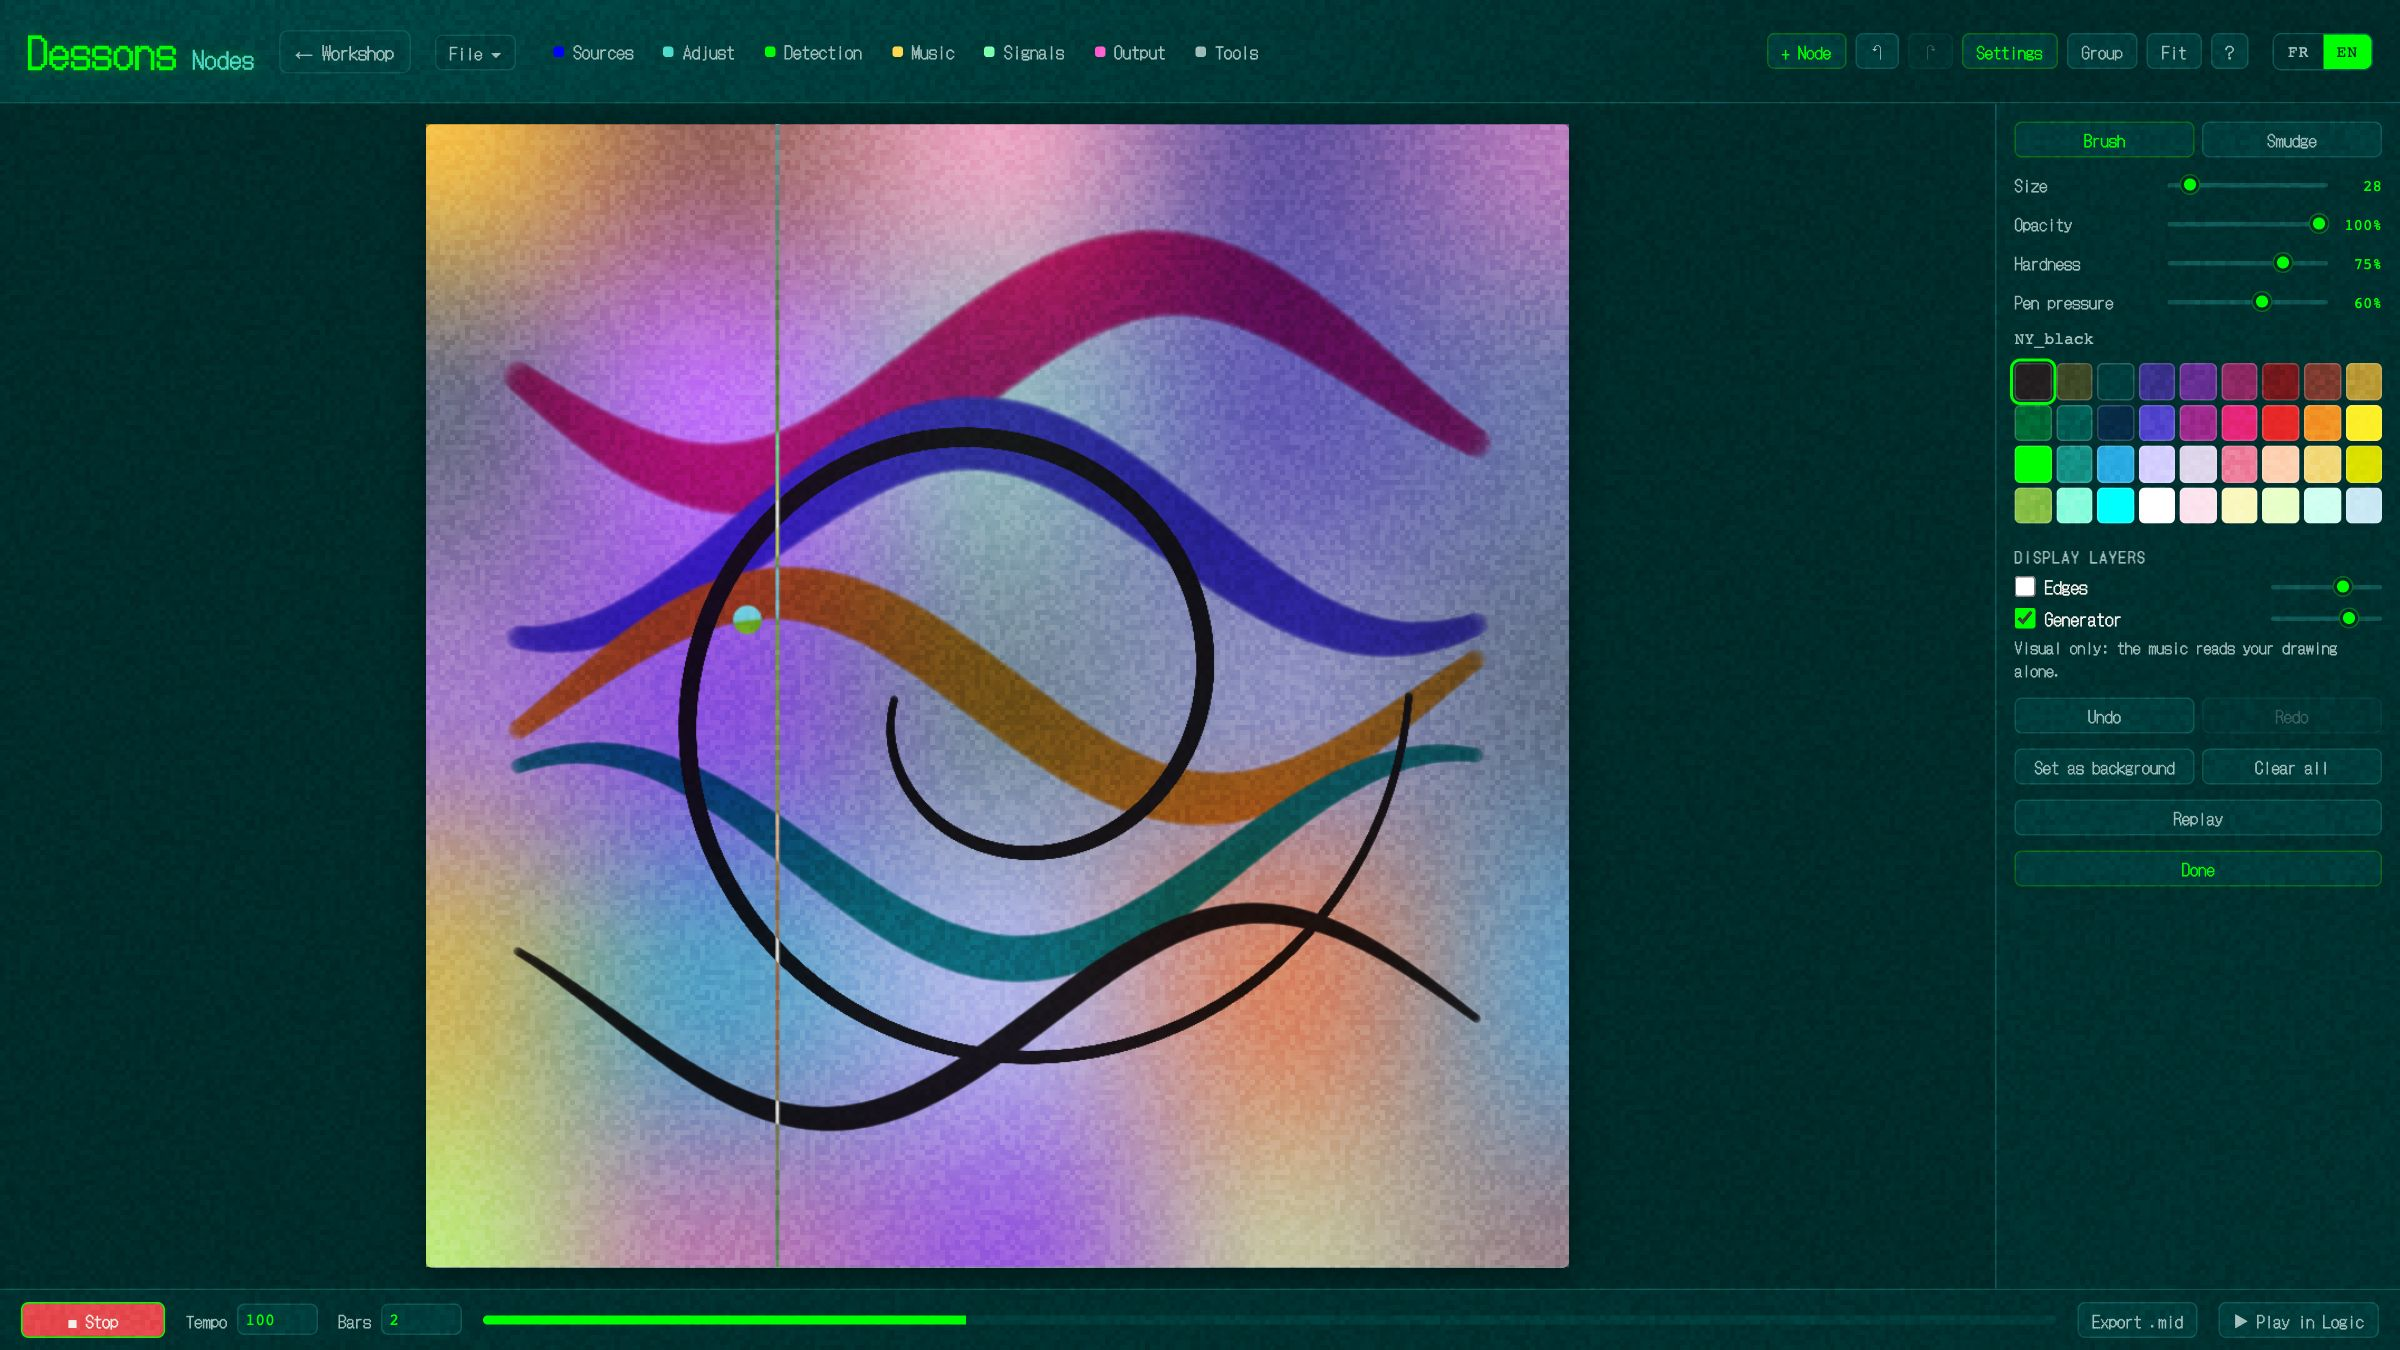
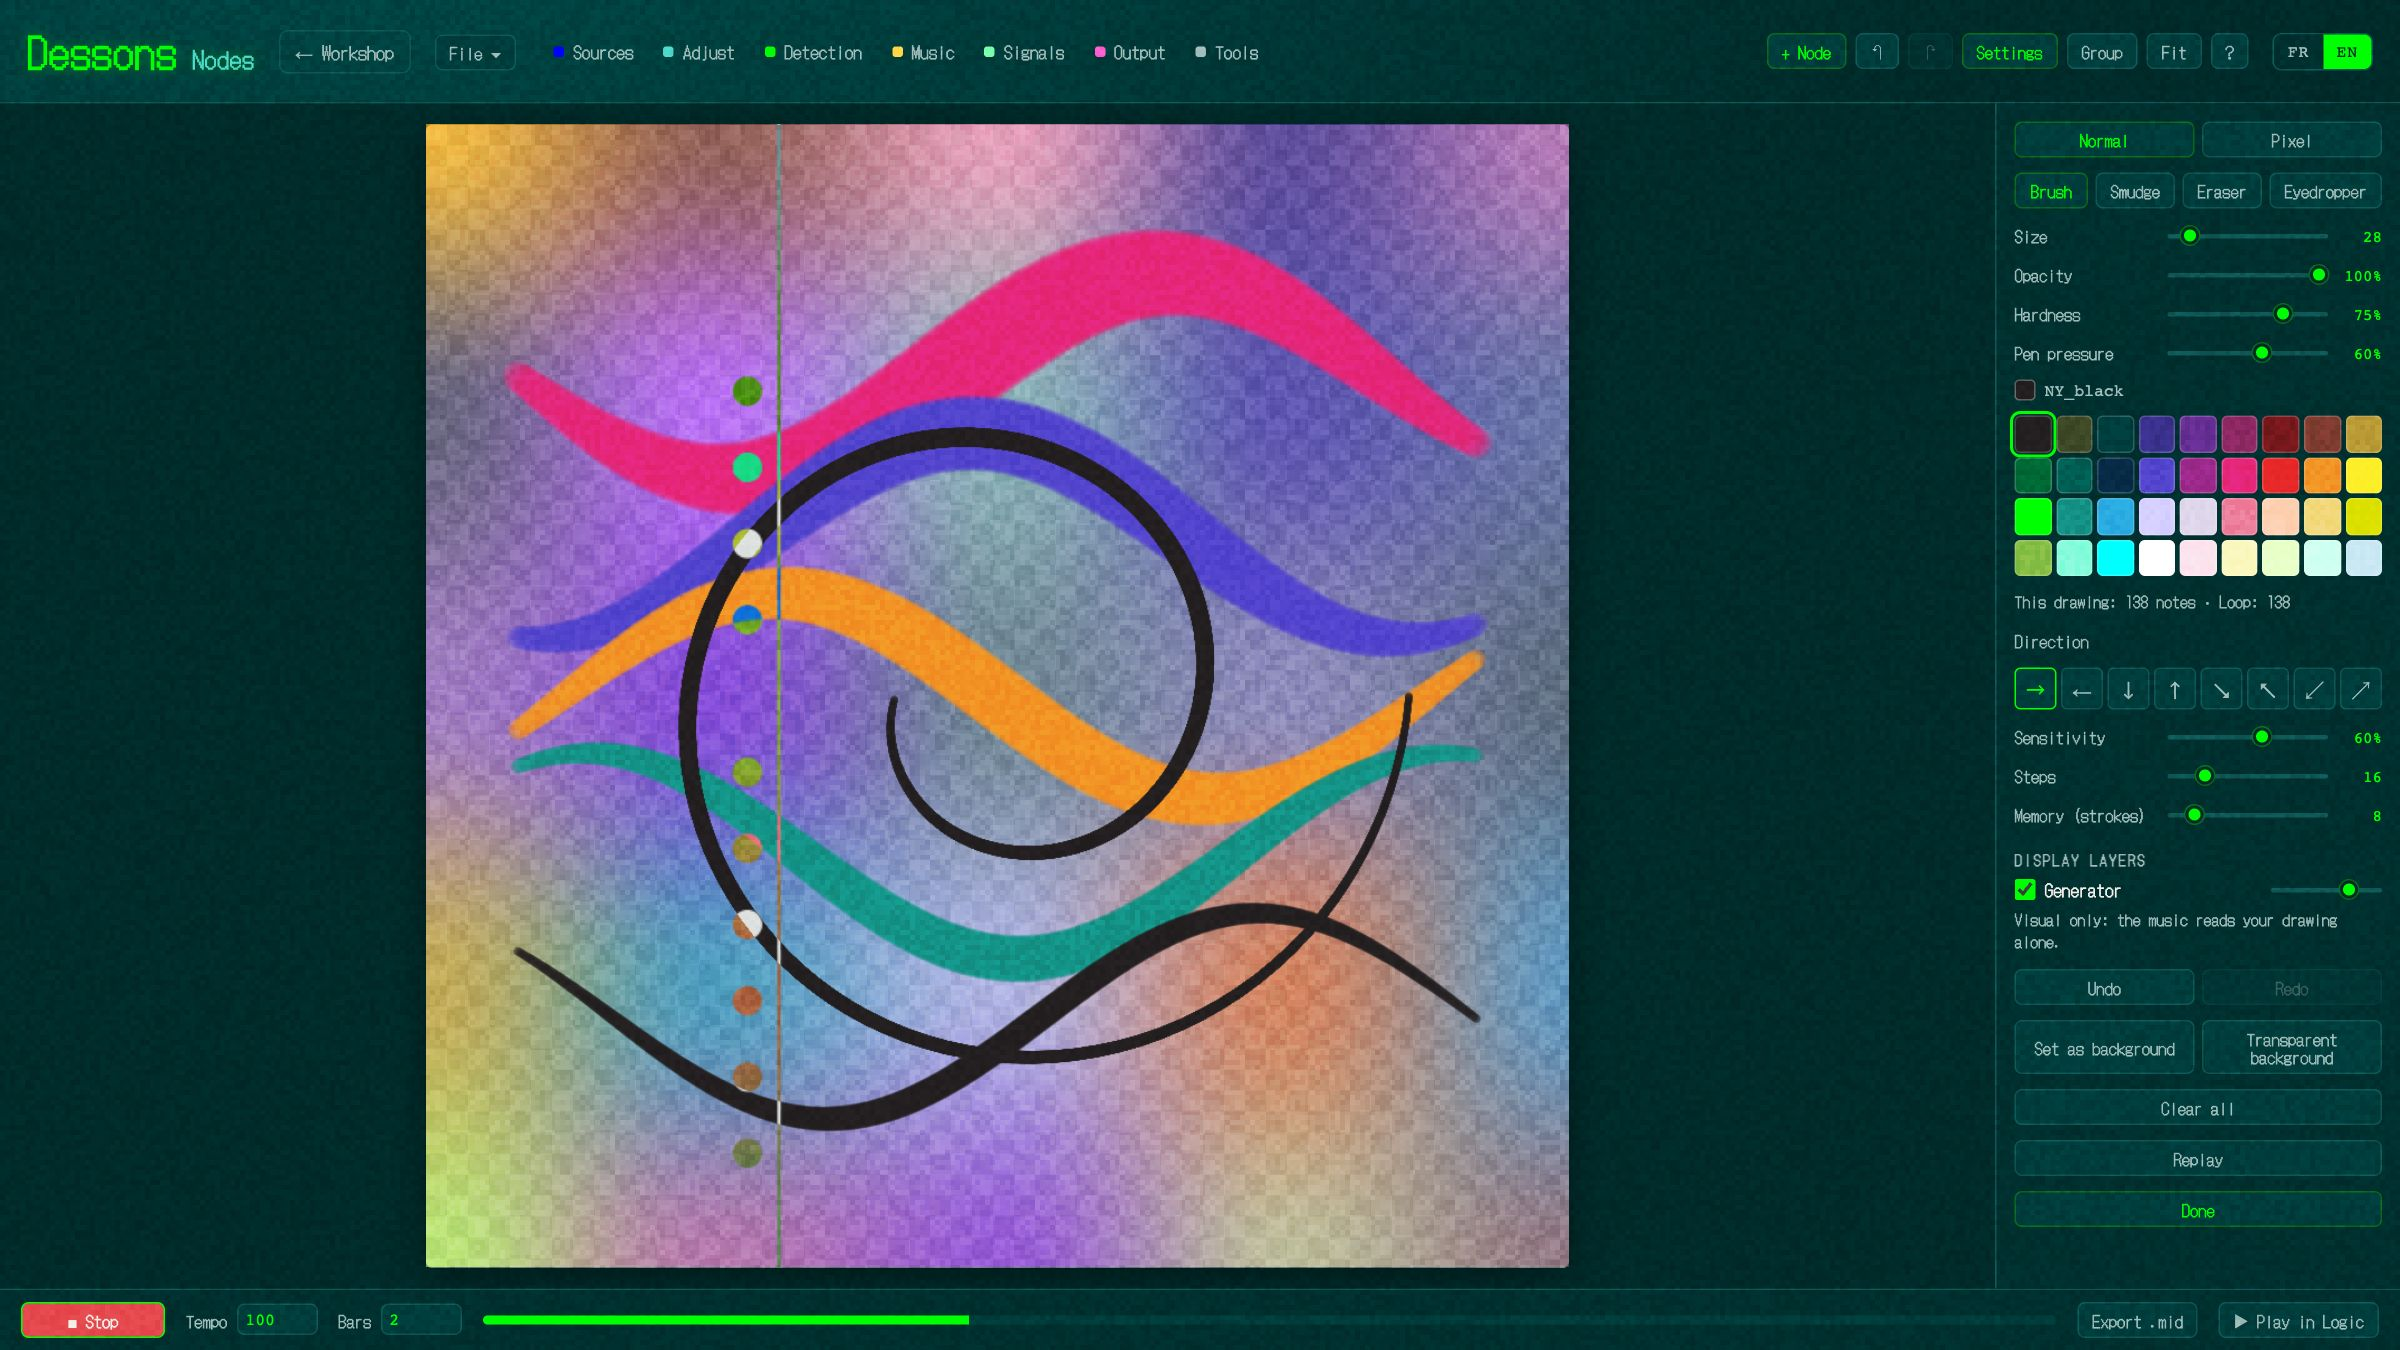
Met à jour les explications du node Dessin
Section dédiée dans les deux README, nouvelle capture, et aides de
l'application à jour avec le méta-node.

diff --git a/nodes.html b/nodes.html
@@ -483,7 +483,7 @@ const I18N = {
     versionRestore:'Restaurer', versionConfirm:'Remplacer le graphe actuel par cette version ? Il sera gardé dans les versions.', versionNone:'Aucune version pour l’instant.',
     versionSum:'{n} nodes · {s} traits', autoFilePick:'Choisir un fichier…', autoFileOff:'Fichier sur le disque : aucun', autoFileOn:'Écrit dans {x}', autoFileStop:'Arrêter', autoFileResume:'Reconnecter', autoFileLost:'Fichier auto à reconnecter',
     savedAt:'Sauvé {x}', savedFile:'Sauvé {x} · {f}',
-    n_srcDraw:'Dessin', p_reveal:'Avancement', btnDraw:'Dessiner', drawSum:'{n} traits', tpl_draw:'Live painting', p_replayMin:'Durée du replay', btnReplayLive:'Rejouer le dessin', replayStop:'Arrêter', replayEnd:'Terminé',
+    drawHint:'Sortie notes vers une Piste. Sens, pas et sensibilité sont dans Dessiner.', n_srcDraw:'Dessin', p_reveal:'Avancement', btnDraw:'Dessiner', drawSum:'{n} traits', tpl_draw:'Live painting', p_replayMin:'Durée du replay', btnReplayLive:'Rejouer le dessin', replayStop:'Arrêter', replayEnd:'Terminé',
     drLayers:'Calques d’affichage', drLayersHint:'Visuels seulement : la musique ne lit que ton dessin.',
     viaPixel:'une note par case', tpl_pixel:'Pixel art',
     modeNormal:'Normal', modePixel:'Pixel', pxGrid:'Grille', pxSize:'Taille (cases)', pxShow:'Afficher la grille',
@@ -562,8 +562,8 @@ const I18N = {
     n_crop:'Recadrage', n_sens:'Sensibilité', n_curve:'Courbe perso.', n_path:'Trajet dessiné',
     t_path:'trajet', t_curve:'courbe', p_seed:'Partir de', seedNone:'—',
     cropHint:'Glisse sur l\'aperçu pour cadrer · double-clic : image entière.',
-    curveHint:'Glisse les 3 poignées. Branche-la sur l\'entrée « courbe » d\'un Balayage.',
-    pathHint:'Dessine le trajet sur l\'aperçu. Branche-le sur l\'entrée « trajet » d\'un Balayage : il remplace le sens.',
+    curveHint:'Glisse les 3 poignées. Branche-la sur l\'entrée « courbe » d\'un Balayage ou d\'un Dessin.',
+    pathHint:'Dessine le trajet sur l\'aperçu. Branche-le sur l\'entrée « trajet » d\'un Balayage ou d\'un Dessin : il remplace le sens.',
     btnAuto:'Auto (Otsu)', sensPass:'{x} % des pixels passent',
     viaSens:'sensibilité réglée par le node', viaPath:'sens : trajet dessiné', viaCurve:'courbe personnalisée',
     p_octRange:'Plage d\'octaves'
@@ -580,7 +580,7 @@ const I18N = {
     versionRestore:'Restore', versionConfirm:'Replace the current graph with this version? It will be kept in the versions.', versionNone:'No version yet.',
     versionSum:'{n} nodes · {s} strokes', autoFilePick:'Choose a file…', autoFileOff:'File on disk: none', autoFileOn:'Writing to {x}', autoFileStop:'Stop', autoFileResume:'Reconnect', autoFileLost:'Auto file needs reconnecting',
     savedAt:'Saved {x}', savedFile:'Saved {x} · {f}',
-    n_srcDraw:'Drawing', p_reveal:'Progress', btnDraw:'Draw', drawSum:'{n} strokes', tpl_draw:'Live painting', p_replayMin:'Replay length', btnReplayLive:'Replay the drawing', replayStop:'Stop', replayEnd:'Finished',
+    drawHint:'Notes output to a Track. Direction, steps and sensitivity are in Draw.', n_srcDraw:'Drawing', p_reveal:'Progress', btnDraw:'Draw', drawSum:'{n} strokes', tpl_draw:'Live painting', p_replayMin:'Replay length', btnReplayLive:'Replay the drawing', replayStop:'Stop', replayEnd:'Finished',
     drLayers:'Display layers', drLayersHint:'Visual only: the music reads your drawing alone.',
     viaPixel:'one note per cell', tpl_pixel:'Pixel art',
     modeNormal:'Normal', modePixel:'Pixel', pxGrid:'Grid', pxSize:'Size (cells)', pxShow:'Show the grid',
@@ -659,8 +659,8 @@ const I18N = {
     n_crop:'Crop', n_sens:'Sensitivity', n_curve:'Custom curve', n_path:'Drawn path',
     t_path:'path', t_curve:'curve', p_seed:'Start from', seedNone:'—',
     cropHint:'Drag on the preview to frame · double-click: whole image.',
-    curveHint:'Drag the 3 handles. Wire it into a Scan\'s "curve" input.',
-    pathHint:'Draw the path on the preview. Wire it into a Scan\'s "path" input: it replaces the direction.',
+    curveHint:'Drag the 3 handles. Wire it into the "curve" input of a Scan or a Drawing.',
+    pathHint:'Draw the path on the preview. Wire it into the "path" input of a Scan or a Drawing: it replaces the direction.',
     btnAuto:'Auto (Otsu)', sensPass:'{x} % of pixels pass',
     viaSens:'sensitivity set by node', viaPath:'direction: drawn path', viaCurve:'custom curve',
     p_octRange:'Octave range'
@@ -1094,7 +1094,7 @@ const NODE_DEFS = {
   // a painting kept as its strokes, in the order they were made, so it can be replayed:
   // with cycles on, the picture builds up during each pass of the Loop
   srcDraw: {
-    cat:'catSource', custom:'draw', thumb:'image',
+    cat:'catSource', custom:'draw', thumb:'image', note:'drawHint',
     inputs:[{id:'scale', type:'scale', opt:true}, {id:'curve', type:'curve', opt:true}, {id:'path', type:'path', opt:true}],
     outputs:[{id:'notes', type:'notes'}, {id:'image', type:'image'}],
     params:[

diff --git a/README.fr.md b/README.fr.md
@@ -71,9 +71,26 @@ Commence par **Fichier → Modèles** : ils jouent tout de suite, sauf *MIDI imp
 - **Sortie** : boucle (synthé d'aperçu, export `.mid`), **Logic (MIDI live)**, un node par piste Logic, et **Signal → CC MIDI** pour automatiser un filtre ou un volume dans ton DAW. Le MIDI en direct nécessite Chrome ou Edge.
 - **Outils** : courbe personnalisée, trajet dessiné, reroute, attache-câbles, cadre de groupe.
 
+### Dessin et live painting
+
+Le node **Dessin** est un instrument complet : tu peins, et la peinture joue. Contours et Balayage y sont intégrés : sa sortie **notes** va directement vers une Piste ou vers Logic. Sa sortie **image** alimente n'importe quelle autre chaîne, par exemple une bande de teinte par couleur, pour donner à chaque couleur son instrument.
+
 ![Live painting dans Nodes : traits de couleur et spirale sur un calque de bruit qui bouge, une tête de lecture qui lit la peinture, les réglages du pinceau et le nuancier NY à droite](docs/screenshot-drawing.jpg)
 
-**Dessin** : peins directement dans le graphe sur un fond transparent avec un pinceau rond, une estompe, une gomme et une pipette (taille, opacité, dureté, pression du stylet) et le nuancier NY. Le node contient Contours et Balayage : sa sortie **notes** va directement vers une Piste, et sa sortie **image** alimente n'importe quelle autre chaîne, par exemple une bande de teinte par couleur. Pour le **live painting**, pars de *Fichier → Modèles → Live painting* : le canvas est lu pendant que tu peins, un trait compte alors que ta main bouge encore, et une tête de lecture sur la peinture montre ce qui sonne. *Mémoire* garde la musique sur tes derniers traits, la peinture restant entière. Chaque trait est enregistré : **Rejouer le dessin** le reconstruit sur la durée choisie (3 minutes par défaut), son compris, et on entend les boucles évoluer. *Cycles / boucle* peut aussi le reconstruire à chaque passage de la boucle. Le mode **Pixel** peint des cases carrées sur une grille visible, de 8×8 à 128×128, et la grille devient la partition : chaque case peinte est exactement une note, une colonne est un pas, une ligne est une hauteur de la gamme. Par la sortie image, une bande de teinte avant un balayage envoie une couleur vers son instrument. Pars de *Fichier → Modèles → Pixel art*. Les **calques d'affichage** montrent d'autres nodes avec la peinture, comme un bruit qui bouge avec la boucle ou une vidéo : ils sont purement visuels, la musique ne lit que ton dessin.
+Pars de *Fichier → Modèles → Live painting* ou *Pixel art*, puis clique sur **Dessiner**.
+
+- **Outils** : pinceau rond (taille, opacité, dureté, pression du stylet), estompe, gomme, pipette. Touches `B`, `S`, `E`, `I` ; `[` et `]` pour la taille ; `Alt`+clic pour prélever une couleur sans changer d'outil.
+- **Couleurs** : le nuancier NY, ou tout ce que tu prélèves à l'écran. Un nouveau dessin démarre sur un fond transparent ; *Mettre en fond* le remplit.
+- **Entendu pendant que tu peins** : lance la lecture et peins. Un trait compte alors que ta main bouge encore, et une tête de lecture sur la peinture montre ce qui sonne.
+- **Lecture** : le sens, les pas et la sensibilité sont dans l'écran de dessin. Un pinceau très doux demande une sensibilité haute.
+- **Mémoire** : une peinture chargée finit par remplir la grille, et un nouveau trait n'a plus rien à ajouter. *Mémoire* garde la musique sur tes derniers traits, la peinture restant entière. *Live painting* démarre à 8 traits.
+- **Pixel** (`P`) : des cases carrées sur une grille visible, de 8×8 à 128×128. La grille devient la partition : chaque case peinte est exactement une note, une colonne est un pas, une ligne est un degré de la gamme. Sensibilité et mémoire ne s'appliquent pas.
+- **Calques d'affichage** : d'autres nodes affichés derrière la peinture, comme un bruit qui bouge avec la boucle ou une vidéo. Ils sont purement visuels : la musique ne lit que ton dessin.
+- **Replay** : chaque trait est enregistré, point par point. **Rejouer le dessin** reconstruit la peinture sur la durée choisie (3 minutes par défaut), son compris, et on entend les boucles évoluer. *Cycles / boucle* la reconstruit plutôt à chaque passage de la boucle.
+
+Le `.json` de **Fichier → Sauver** garde tout le dessin et ses étapes. Il ne garde pas le temps réel de ton geste : le replay avance à vitesse régulière.
+
+### À savoir
 
 Le `.mid` exporté suit ce que tu entends : un mesh qui tourne ou un signal qui bouge est rejoué pas à pas. Les notes d'un `.mid` importé gardent leurs hauteurs et peuvent donc sortir de la gamme : passe-les par **Caler sur la gamme** pour les y ramener. **Caler la Boucle**, sur le node MIDI, donne à la Boucle la longueur et le tempo du fichier.
 

diff --git a/README.md b/README.md
@@ -71,9 +71,26 @@ Start from **File → Templates**: they play straight away, except *Imported MID
 - **Output**: loop (preview synth, `.mid` export), **Logic (live MIDI)**, one node per Logic track, and **Signal → MIDI CC** to automate a filter or a volume in your DAW. Live MIDI needs Chrome or Edge.
 - **Tools**: custom curve, drawn path, reroute, cable clip, group frame.
 
+### Drawing and live painting
+
+The **Drawing** node is a whole instrument: paint, and the painting plays. It has Edges and Scan built in, so its **notes** output goes straight to a Track or to Logic. Its **image** output feeds any other chain, for instance a hue band per color so that each color gets its own instrument.
+
 ![Live painting in Nodes: colored strokes and a spiral over a moving noise layer, a playhead reading the painting, the brush settings and NY palette on the right](docs/screenshot-drawing.jpg)
 
-**Drawing**: paint straight into the graph on transparent paper with a round brush, a smudge tool, an eraser and an eyedropper (size, opacity, hardness, pen pressure) and the NY color palette. The node has Edges and Scan built in: its **notes** output goes straight to a Track, and its **image** output feeds any other chain, for instance a hue band per color. For **live painting**, start from *File → Templates → Live painting*: the canvas is read as you paint, a stroke counts while your hand is still moving, and a playhead on the painting shows what is sounding. *Memory* keeps the music on your latest strokes while the painting stays whole. Every stroke is recorded, so **Replay the drawing** rebuilds it over the length you choose (3 minutes by default) with the sound running, and you hear the loops evolve. *Cycles / loop* can also rebuild it on each pass of the loop. **Pixel** mode paints square cells on a visible grid, from 8×8 to 128×128, and the grid becomes the score: each painted cell is exactly one note, a column is a step, a row is a pitch of the scale. Through the image output, a hue band before a scan sends a color to its own instrument. Start from *File → Templates → Pixel art*. **Display layers** show other nodes with the painting, such as a noise moving with the loop or a video: they are visual only, the music reads your drawing alone.
+Start from *File → Templates → Live painting* or *Pixel art*, then click **Draw**.
+
+- **Tools**: round brush (size, opacity, hardness, pen pressure), smudge, eraser, eyedropper. Keys `B`, `S`, `E`, `I`; `[` and `]` for the size; `Alt`+click to pick a color without changing tool.
+- **Colors**: the NY palette, or anything picked from the screen. A new drawing starts on transparent paper; *Set as background* fills it.
+- **Heard as you paint**: press play and paint. A stroke counts while your hand is still moving, and a playhead on the painting shows what is sounding.
+- **Reading**: direction, steps and sensitivity are on the painting screen. A very soft brush needs a high sensitivity.
+- **Memory**: a full painting ends up filling the grid, and a new stroke has nothing left to add. *Memory* keeps the music on your latest strokes while the painting stays whole. *Live painting* starts at 8 strokes.
+- **Pixel** (`P`): square cells on a visible grid, from 8×8 to 128×128. The grid becomes the score: each painted cell is exactly one note, a column is a step, a row is a degree of the scale. Sensitivity and memory don't apply.
+- **Display layers**: other nodes shown behind the painting, such as a noise moving with the loop or a video. They are visual only: the music reads your drawing alone.
+- **Replay**: every stroke is recorded, point by point. **Replay the drawing** rebuilds the painting over the length you choose (3 minutes by default) with the sound running, and you hear the loops evolve. *Cycles / loop* rebuilds it on each pass of the loop instead.
+
+The `.json` from **File → Save** keeps the whole drawing and its steps. It doesn't keep the real timing of your gesture: the replay runs at an even pace.
+
+### Good to know
 
 The exported `.mid` follows what you hear: a spinning mesh or a moving signal is replayed step by step. Notes from an imported `.mid` keep their own pitches, so they can leave the scale: wire them through **Snap to scale** to bring them back. Use **Match the Loop** on the MIDI node to give the Loop the file's length and tempo.
 
